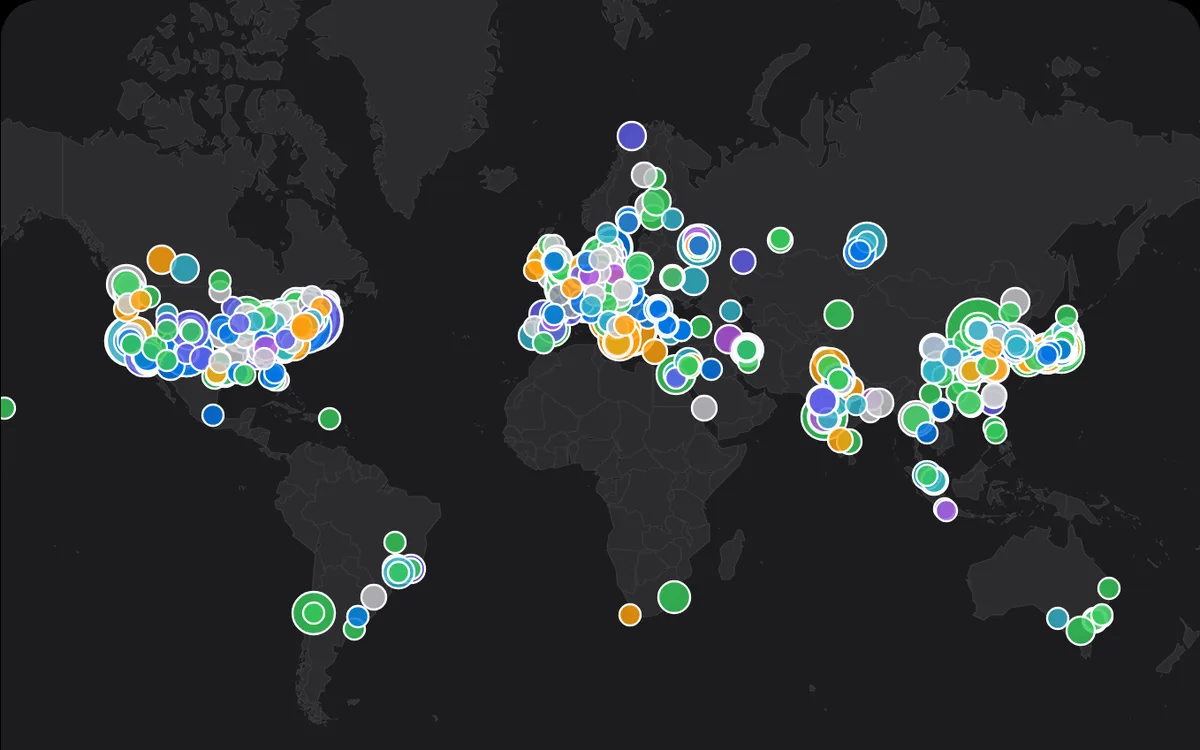
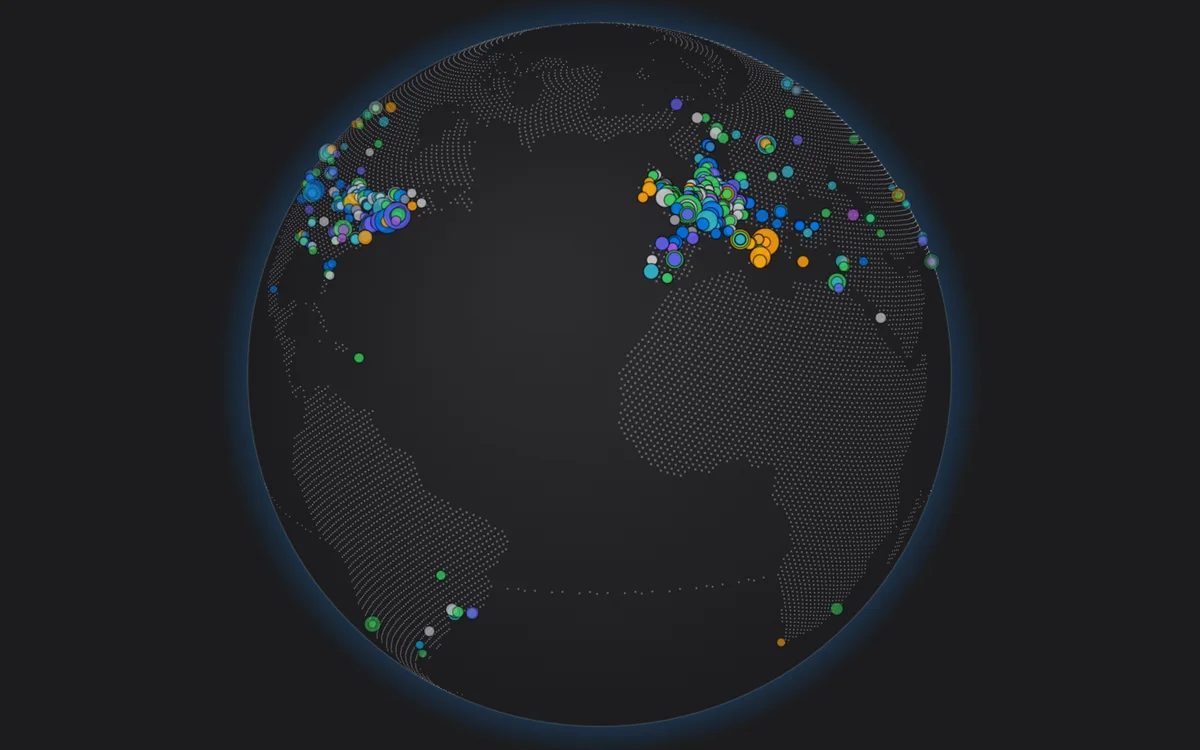
Faraday Cup Atlas card: globe image, "globe" in all languages

diff --git a/v2/i18n.js b/v2/i18n.js
@@ -185,7 +185,7 @@
                 { name: 'Gemelo digital de AEgIS', tag: 'CERN · antimateria', text: 'Modelos de orden reducido que combinan física de primeros principios con aprendizaje automático para predecir el comportamiento de la trampa de Penning–Malmberg y optimizar el confinamiento de antiprotones.' },
                 { name: 'Fuente de iones de cúspide anular', tag: 'Doctorado · propulsión espacial y fusión', text: 'Diseñé, construí y caractericé una fuente multicúspide con haces de Ar⁺ de 1–2 keV / hasta 100 mA y hasta un 100 % de neutralización de la carga espacial.' },
                 { name: 'Copa de Faraday de 10 kW', tag: 'Máster · diagnóstico de haces', text: 'Copa de Faraday refrigerada por agua para haces de 20–30 mA, 20 veces más potente que el sistema anterior de 1 kW, con supresión optimizada mediante SIMION y LORENTZ.' },
-                { name: 'Atlas de copas de Faraday', tag: 'Datos abiertos · diagnóstico de haces', text: 'Copas de Faraday publicadas por laboratorios de todo el mundo en un mapa interactivo, con el haz, la energía, el material y el diseño que indica cada artículo, con filtros y enlace a cada artículo.' },
+                { name: 'Atlas de copas de Faraday', tag: 'Datos abiertos · diagnóstico de haces', text: 'Copas de Faraday publicadas por laboratorios de todo el mundo en un globo interactivo, con el haz, la energía, el material y el diseño que indica cada artículo, con filtros y enlace a cada artículo.' },
                 { name: 'Calentador de cátodo por inducción', tag: 'Simulación · Elmer FEM', text: 'Modelo 3D acoplado electromagnético y térmico de un cátodo de LaB₆ calentado por inducción desde temperatura ambiente, hecho con el código abierto Elmer FEM y contrastado con un modelo 2D.' },
             ],
             gallery: [
@@ -268,7 +268,7 @@
                 { name: 'Цифровой двойник AEgIS', tag: 'ЦЕРН · антиматерия', text: 'Модели пониженного порядка, объединяющие физику из первых принципов и машинное обучение, для прогнозирования поведения ловушки Пеннинга–Мальмберга и оптимизации удержания антипротонов.' },
                 { name: 'Ионный источник с кольцевым каспом', tag: 'PhD · космические двигатели и термоядерный синтез', text: 'Спроектировал, построил и исследовал многокаспный источник с пучками Ar⁺ 1–2 кэВ / до 100 мА и нейтрализацией пространственного заряда до 100%.' },
                 { name: 'Цилиндр Фарадея на 10 кВт', tag: 'Магистратура · диагностика пучков', text: 'Цилиндр Фарадея с водяным охлаждением для пучков 20–30 мА — в 20 раз мощнее прежней системы на 1 кВт, с подавлением, оптимизированным в SIMION и LORENTZ.' },
-                { name: 'Атлас цилиндров Фарадея', tag: 'Открытые данные · диагностика пучков', text: 'Опубликованные цилиндры Фарадея из лабораторий всего мира на одной интерактивной карте: пучок, энергия, материал и конструкция из каждой статьи, с фильтрами и ссылкой на каждую статью.' },
+                { name: 'Атлас цилиндров Фарадея', tag: 'Открытые данные · диагностика пучков', text: 'Опубликованные цилиндры Фарадея из лабораторий всего мира на одном интерактивном глобусе: пучок, энергия, материал и конструкция из каждой статьи, с фильтрами и ссылкой на каждую статью.' },
                 { name: 'Индукционный нагреватель катода', tag: 'Моделирование · Elmer FEM', text: 'Связанная трёхмерная электромагнитная и тепловая модель катода из LaB₆ с индукционным нагревом при прогреве от комнатной температуры, построенная в открытом пакете Elmer FEM и сверенная с двумерной моделью.' },
             ],
             gallery: [
@@ -351,7 +351,7 @@
                 { name: 'Jumeau numérique d’AEgIS', tag: 'CERN · antimatière', text: 'Modèles d’ordre réduit combinant physique des premiers principes et apprentissage automatique pour prédire le comportement du piège de Penning–Malmberg et optimiser le confinement des antiprotons.' },
                 { name: 'Source d’ions à cuspide annulaire', tag: 'Doctorat · propulsion spatiale et fusion', text: 'Conception, construction et caractérisation d’une source multicuspide produisant des faisceaux d’Ar⁺ de 1–2 keV / jusqu’à 100 mA, avec jusqu’à 100 % de neutralisation de la charge d’espace.' },
                 { name: 'Cage de Faraday de 10 kW', tag: 'Master · diagnostic de faisceaux', text: 'Cage de Faraday refroidie par eau pour des faisceaux de 20–30 mA, 20 fois plus puissante que l’ancien système de 1 kW, avec une suppression optimisée via SIMION et LORENTZ.' },
-                { name: 'Atlas des cages de Faraday', tag: 'Données ouvertes · diagnostic de faisceaux', text: 'Les cages de Faraday publiées par des laboratoires du monde entier sur une carte interactive, avec le faisceau, l’énergie, le matériau et la conception indiqués par chaque article, filtrables et liées à chaque article.' },
+                { name: 'Atlas des cages de Faraday', tag: 'Données ouvertes · diagnostic de faisceaux', text: 'Les cages de Faraday publiées par des laboratoires du monde entier sur un globe interactif, avec le faisceau, l’énergie, le matériau et la conception indiqués par chaque article, filtrables et liées à chaque article.' },
                 { name: 'Chauffage de cathode par induction', tag: 'Simulation · Elmer FEM', text: 'Modèle 3D couplé électromagnétique et thermique d\u2019une cathode en LaB₆ chauffée par induction depuis la température ambiante, réalisé avec le code libre Elmer FEM et comparé à un modèle 2D.' },
             ],
             gallery: [
@@ -434,7 +434,7 @@
                 { name: 'AEgIS ડિજિટલ ટ્વિન', tag: 'CERN · પ્રતિદ્રવ્ય', text: 'પેનિંગ–માલ્મબર્ગ ટ્રેપના વર્તનની આગાહી અને એન્ટિપ્રોટોન બંધનના ઑપ્ટિમાઇઝેશન માટે મૂળભૂત ભૌતિકશાસ્ત્ર અને મશીન લર્નિંગને જોડતાં રિડ્યુસ્ડ-ઑર્ડર મોડેલ.' },
                 { name: 'રિંગ-કસ્પ આયન સ્રોત', tag: 'Ph.D. · અવકાશ પ્રોપલ્શન અને ફ્યુઝન', text: '1–2 keV / 100 mA સુધીના Ar⁺ બીમ અને 100% સુધી સ્પેસ-ચાર્જ ન્યુટ્રલાઇઝેશન ધરાવતો મલ્ટિકસ્પ સ્રોત ડિઝાઇન કર્યો, બનાવ્યો અને લાક્ષણિકૃત કર્યો.' },
                 { name: '10 kW ફેરાડે કપ', tag: 'M.Tech · બીમ ડાયગ્નોસ્ટિક્સ', text: '20–30 mA બીમ માટે પાણીથી ઠંડો થતો ફેરાડે કપ — જૂની 1 kW સિસ્ટમ કરતાં 20 ગણો સક્ષમ, SIMION અને LORENTZ વડે ઑપ્ટિમાઇઝ કરેલા સપ્રેશન સાથે.' },
-                { name: 'ફેરાડે કપ એટલાસ', tag: 'ઓપન ડેટા · બીમ ડાયગ્નોસ્ટિક્સ', text: 'વિશ્વભરની પ્રયોગશાળાઓના પ્રકાશિત ફેરાડે કપ એક ઇન્ટરેક્ટિવ નકશા પર, દરેક પેપરમાં જણાવેલ બીમ, ઊર્જા, કપનું મટીરિયલ અને ડિઝાઇન સાથે, ફિલ્ટર કરી શકાય તેવા અને દરેક પેપરની લિંક સાથે.' },
+                { name: 'ફેરાડે કપ એટલાસ', tag: 'ઓપન ડેટા · બીમ ડાયગ્નોસ્ટિક્સ', text: 'વિશ્વભરની પ્રયોગશાળાઓના પ્રકાશિત ફેરાડે કપ એક ઇન્ટરેક્ટિવ ગ્લોબ પર, દરેક પેપરમાં જણાવેલ બીમ, ઊર્જા, કપનું મટીરિયલ અને ડિઝાઇન સાથે, ફિલ્ટર કરી શકાય તેવા અને દરેક પેપરની લિંક સાથે.' },
                 { name: 'ઇન્ડક્શન કેથોડ હીટર', tag: 'સિમ્યુલેશન · Elmer FEM', text: 'ઓરડાના તાપમાનથી ગરમ થતા ઇન્ડક્શન-હીટેડ LaB₆ કેથોડનું 3D વિદ્યુતચુંબકીય અને થર્મલ સંયુક્ત મોડેલ, ઓપન-સોર્સ Elmer FEM માં બનાવેલું અને 2D મોડેલ સાથે ચકાસેલું.' },
             ],
             gallery: [

diff --git a/index.html b/index.html
@@ -66,7 +66,7 @@
     <meta name="twitter:description" content="Accelerator physicist working on ion & electron sources, beam diagnostics and digital twins. Research, lab instruments, publications, lectures and simulations.">
     <meta name="twitter:image" content="https://bharat-singh-rawat.github.io/CV/v2/img/og-card.jpg?v=bsr1">
     <!-- ALL CV CONTENT COMES FROM /Dossier/profile.js — edit that file, not this page -->
-    <script src="/Dossier/profile.js?v=20261124zza"></script>
+    <script src="/Dossier/profile.js?v=20261124zzc"></script>
     <script>
         /* theme: follow the system unless the visitor picked one (footer / search); decided before the page paints */
         (function () {
@@ -77,7 +77,7 @@
             window.cvInkRGB = dark ? '245, 245, 247' : '29, 29, 31';   /* line colour for the canvas scenes */
         })();
     </script>
-    <link rel="stylesheet" href="/CV/v2/v2.css?v=20261124zza">
+    <link rel="stylesheet" href="/CV/v2/v2.css?v=20261124zzc">
 </head>
 <body>
     <!-- BSR intro: once per visit, skipped for reduced motion -->
@@ -290,23 +290,23 @@
         </div>
     </footer>
 
-    <script src="/CV/v2/i18n.js?v=20261124zza"></script>
-    <script src="/CV/v2/v2.js?v=20261124zza"></script>
-    <script src="/CV/v2/music.js?v=20261124zza"></script>
-    <script src="/CV/v2/scenes.js?v=20261124zza"></script>
-    <script src="/CV/v2/sfx.js?v=20261124zza"></script>
-    <script src="/CV/v2/extras.js?v=20261124zza"></script>
-    <script src="/CV/v2/clips.js?v=20261124zza"></script>
-    <script src="/CV/v2/retro.js?v=20261124zza"></script>
-    <script src="/CV/v2/polish.js?v=20261124zza"></script>
-    <script src="/CV/v2/apple.js?v=20261124zza"></script>
-    <script src="/CV/v2/flow.js?v=20261124zza"></script>
-    <script src="/CV/v2/depth.js?v=20261124zza"></script>
-    <script src="/CV/v2/mobile.js?v=20261124zza"></script>
+    <script src="/CV/v2/i18n.js?v=20261124zzc"></script>
+    <script src="/CV/v2/v2.js?v=20261124zzc"></script>
+    <script src="/CV/v2/music.js?v=20261124zzc"></script>
+    <script src="/CV/v2/scenes.js?v=20261124zzc"></script>
+    <script src="/CV/v2/sfx.js?v=20261124zzc"></script>
+    <script src="/CV/v2/extras.js?v=20261124zzc"></script>
+    <script src="/CV/v2/clips.js?v=20261124zzc"></script>
+    <script src="/CV/v2/retro.js?v=20261124zzc"></script>
+    <script src="/CV/v2/polish.js?v=20261124zzc"></script>
+    <script src="/CV/v2/apple.js?v=20261124zzc"></script>
+    <script src="/CV/v2/flow.js?v=20261124zzc"></script>
+    <script src="/CV/v2/depth.js?v=20261124zzc"></script>
+    <script src="/CV/v2/mobile.js?v=20261124zzc"></script>
     <script>
         /* career globe (land dots ~130 KB + renderer): fetched only when Career comes near, not on first load */
         (function () {
-            var sec = document.getElementById('career'), V = '20261124zza', loaded = false;
+            var sec = document.getElementById('career'), V = '20261124zzc', loaded = false;
             function load() {
                 if (loaded) return; loaded = true;
                 var a = document.createElement('script'); a.src = '/CV/v2/globe-dots.js?v=' + V;
